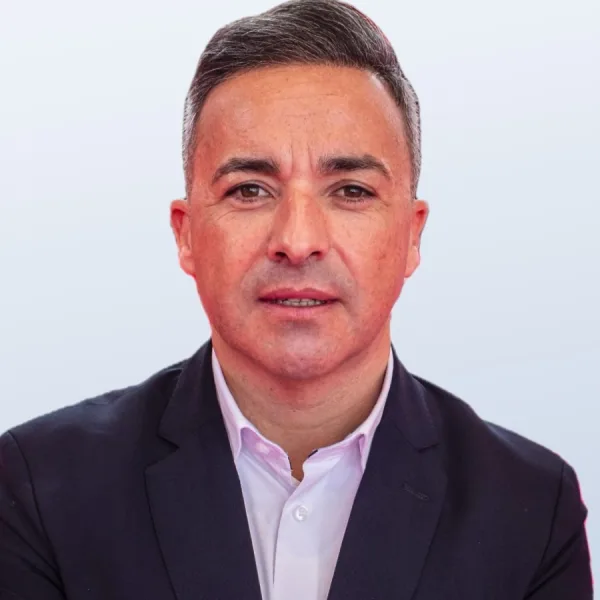
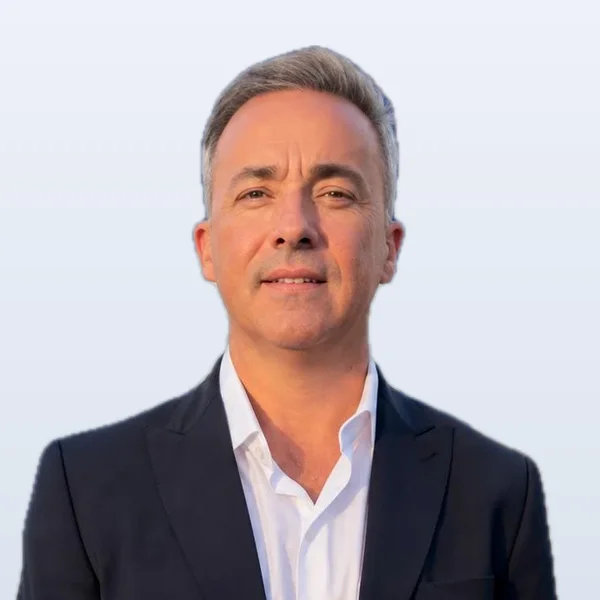
Web: actualización del 16-11-2026 18:18

diff --git a/public/sobre-nosotros.html b/public/sobre-nosotros.html
@@ -46,7 +46,7 @@
 <section class="sec" id="equipo"><div class="wrap">
   <p class="eyebrow"><i></i>El equipo</p>
   <h2 class="h2">Las personas<br><span>detrás de Finomik.</span></h2>
-  <div class="members"><article class="member"><span class="ph"><img src="/media/equipo/joaquino-da-costa.webp?v=1" alt="Joaquino Da Costa" width="600" height="600" loading="lazy" decoding="async"></span><b>Joaquino Da Costa</b><span class="role">CEO</span><p>Habla con cada colegio antes de que empiece con Finomik y se asegura de que el programa encaje en su día a día.</p></article><article class="member"><span class="ph"><img src="/media/equipo/miquel-ferrer.webp?v=1" alt="Miquel Ferrer" width="600" height="600" loading="lazy" decoding="async"></span><b>Miquel Ferrer</b><span class="role">CFO y COO</span><p>Se ocupa del producto, del contenido y de los números, para que cada clase funcione.</p></article><article class="member"><span class="ph"><img src="/media/equipo/walter-da-costa.webp?v=1" alt="Walter Da Costa" width="600" height="600" loading="lazy" decoding="async"></span><b>Walter Da Costa</b><span class="role">Director ejecutivo</span><p>Casi 20 años vendiendo en más de 65 países. Lleva Finomik a nuevos mercados.</p></article><article class="member"><span class="ph"><img src="/media/equipo/gaspar-montoliu.webp?v=1" alt="Gaspar Montoliu" width="600" height="600" loading="lazy" decoding="async"></span><b>Gaspar Montoliu</b><span class="role">CTO</span><p>Más de 30 años creando y haciendo crecer productos tecnológicos. Es quien construye la plataforma.</p></article></div>
+  <div class="members"><article class="member"><span class="ph"><img src="/media/equipo/joaquino-da-costa.webp?v=1" alt="Joaquino Da Costa" width="600" height="600" loading="lazy" decoding="async"></span><b>Joaquino Da Costa</b><span class="role">CEO</span><p>Habla con cada colegio antes de que empiece con Finomik y se asegura de que el programa encaje en su día a día.</p></article><article class="member"><span class="ph"><img src="/media/equipo/miquel-ferrer.webp?v=1" alt="Miquel Ferrer" width="600" height="600" loading="lazy" decoding="async"></span><b>Miquel Ferrer</b><span class="role">CFO y COO</span><p>Se ocupa del producto, del contenido y de los números, para que cada clase funcione.</p></article><article class="member"><span class="ph"><img src="/media/equipo/walter-da-costa.webp?v=4" alt="Walter Da Costa" width="600" height="600" loading="lazy" decoding="async"></span><b>Walter Da Costa</b><span class="role">Director ejecutivo</span><p>Casi 20 años vendiendo en más de 65 países. Lleva Finomik a nuevos mercados.</p></article><article class="member"><span class="ph"><img src="/media/equipo/gaspar-montoliu.webp?v=1" alt="Gaspar Montoliu" width="600" height="600" loading="lazy" decoding="async"></span><b>Gaspar Montoliu</b><span class="role">CTO</span><p>Más de 30 años creando y haciendo crecer productos tecnológicos. Es quien construye la plataforma.</p></article></div>
 </div></section>
 <!-- ============ TESTIMONIOS ============ -->
 <section class="sec ts" id="testi">

diff --git a/src/paginas/es/nosotros.html b/src/paginas/es/nosotros.html
@@ -14,7 +14,7 @@
 <section class="sec" id="equipo"><div class="wrap">
   <p class="eyebrow"><i></i>El equipo</p>
   <h2 class="h2">Las personas<br><span>detrás de Finomik.</span></h2>
-  <div class="members"><article class="member"><span class="ph"><img src="/media/equipo/joaquino-da-costa.webp?v=1" alt="Joaquino Da Costa" width="600" height="600" loading="lazy" decoding="async"></span><b>Joaquino Da Costa</b><span class="role">CEO</span><p>Habla con cada colegio antes de que empiece con Finomik y se asegura de que el programa encaje en su día a día.</p></article><article class="member"><span class="ph"><img src="/media/equipo/miquel-ferrer.webp?v=1" alt="Miquel Ferrer" width="600" height="600" loading="lazy" decoding="async"></span><b>Miquel Ferrer</b><span class="role">CFO y COO</span><p>Se ocupa del producto, del contenido y de los números, para que cada clase funcione.</p></article><article class="member"><span class="ph"><img src="/media/equipo/walter-da-costa.webp?v=1" alt="Walter Da Costa" width="600" height="600" loading="lazy" decoding="async"></span><b>Walter Da Costa</b><span class="role">Director ejecutivo</span><p>Casi 20 años vendiendo en más de 65 países. Lleva Finomik a nuevos mercados.</p></article><article class="member"><span class="ph"><img src="/media/equipo/gaspar-montoliu.webp?v=1" alt="Gaspar Montoliu" width="600" height="600" loading="lazy" decoding="async"></span><b>Gaspar Montoliu</b><span class="role">CTO</span><p>Más de 30 años creando y haciendo crecer productos tecnológicos. Es quien construye la plataforma.</p></article></div>
+  <div class="members"><article class="member"><span class="ph"><img src="/media/equipo/joaquino-da-costa.webp?v=1" alt="Joaquino Da Costa" width="600" height="600" loading="lazy" decoding="async"></span><b>Joaquino Da Costa</b><span class="role">CEO</span><p>Habla con cada colegio antes de que empiece con Finomik y se asegura de que el programa encaje en su día a día.</p></article><article class="member"><span class="ph"><img src="/media/equipo/miquel-ferrer.webp?v=1" alt="Miquel Ferrer" width="600" height="600" loading="lazy" decoding="async"></span><b>Miquel Ferrer</b><span class="role">CFO y COO</span><p>Se ocupa del producto, del contenido y de los números, para que cada clase funcione.</p></article><article class="member"><span class="ph"><img src="/media/equipo/walter-da-costa.webp?v=4" alt="Walter Da Costa" width="600" height="600" loading="lazy" decoding="async"></span><b>Walter Da Costa</b><span class="role">Director ejecutivo</span><p>Casi 20 años vendiendo en más de 65 países. Lleva Finomik a nuevos mercados.</p></article><article class="member"><span class="ph"><img src="/media/equipo/gaspar-montoliu.webp?v=1" alt="Gaspar Montoliu" width="600" height="600" loading="lazy" decoding="async"></span><b>Gaspar Montoliu</b><span class="role">CTO</span><p>Más de 30 años creando y haciendo crecer productos tecnológicos. Es quien construye la plataforma.</p></article></div>
 </div></section>
 <!-- ============ TESTIMONIOS ============ -->
 <section class="sec ts" id="testi">

diff --git a/public/en/about.html b/public/en/about.html
@@ -46,7 +46,7 @@
 <section class="sec" id="equipo"><div class="wrap">
   <p class="eyebrow"><i></i>The team</p>
   <h2 class="h2">The people<br><span>behind Finomik.</span></h2>
-  <div class="members"><article class="member"><span class="ph"><img src="/media/equipo/joaquino-da-costa.webp?v=1" alt="Joaquino Da Costa" width="600" height="600" loading="lazy" decoding="async"></span><b>Joaquino Da Costa</b><span class="role">CEO</span><p>Talks to every school before it starts with Finomik and makes sure the programme fits its day-to-day.</p></article><article class="member"><span class="ph"><img src="/media/equipo/miquel-ferrer.webp?v=1" alt="Miquel Ferrer" width="600" height="600" loading="lazy" decoding="async"></span><b>Miquel Ferrer</b><span class="role">CFO & COO</span><p>Looks after the product, the content and the numbers, so that every class works.</p></article><article class="member"><span class="ph"><img src="/media/equipo/walter-da-costa.webp?v=1" alt="Walter Da Costa" width="600" height="600" loading="lazy" decoding="async"></span><b>Walter Da Costa</b><span class="role">Executive Director</span><p>Almost 20 years selling in more than 65 countries. He takes Finomik to new markets.</p></article><article class="member"><span class="ph"><img src="/media/equipo/gaspar-montoliu.webp?v=1" alt="Gaspar Montoliu" width="600" height="600" loading="lazy" decoding="async"></span><b>Gaspar Montoliu</b><span class="role">CTO</span><p>Over 30 years building and scaling tech products. He's the one who builds the platform.</p></article></div>
+  <div class="members"><article class="member"><span class="ph"><img src="/media/equipo/joaquino-da-costa.webp?v=1" alt="Joaquino Da Costa" width="600" height="600" loading="lazy" decoding="async"></span><b>Joaquino Da Costa</b><span class="role">CEO</span><p>Talks to every school before it starts with Finomik and makes sure the programme fits its day-to-day.</p></article><article class="member"><span class="ph"><img src="/media/equipo/miquel-ferrer.webp?v=1" alt="Miquel Ferrer" width="600" height="600" loading="lazy" decoding="async"></span><b>Miquel Ferrer</b><span class="role">CFO & COO</span><p>Looks after the product, the content and the numbers, so that every class works.</p></article><article class="member"><span class="ph"><img src="/media/equipo/walter-da-costa.webp?v=4" alt="Walter Da Costa" width="600" height="600" loading="lazy" decoding="async"></span><b>Walter Da Costa</b><span class="role">Executive Director</span><p>Almost 20 years selling in more than 65 countries. He takes Finomik to new markets.</p></article><article class="member"><span class="ph"><img src="/media/equipo/gaspar-montoliu.webp?v=1" alt="Gaspar Montoliu" width="600" height="600" loading="lazy" decoding="async"></span><b>Gaspar Montoliu</b><span class="role">CTO</span><p>Over 30 years building and scaling tech products. He's the one who builds the platform.</p></article></div>
 </div></section>
 <!-- ============ TESTIMONIALS ============ -->
 <section class="sec ts" id="testi">

diff --git a/src/paginas/en/nosotros.html b/src/paginas/en/nosotros.html
@@ -14,7 +14,7 @@
 <section class="sec" id="equipo"><div class="wrap">
   <p class="eyebrow"><i></i>The team</p>
   <h2 class="h2">The people<br><span>behind Finomik.</span></h2>
-  <div class="members"><article class="member"><span class="ph"><img src="/media/equipo/joaquino-da-costa.webp?v=1" alt="Joaquino Da Costa" width="600" height="600" loading="lazy" decoding="async"></span><b>Joaquino Da Costa</b><span class="role">CEO</span><p>Talks to every school before it starts with Finomik and makes sure the programme fits its day-to-day.</p></article><article class="member"><span class="ph"><img src="/media/equipo/miquel-ferrer.webp?v=1" alt="Miquel Ferrer" width="600" height="600" loading="lazy" decoding="async"></span><b>Miquel Ferrer</b><span class="role">CFO & COO</span><p>Looks after the product, the content and the numbers, so that every class works.</p></article><article class="member"><span class="ph"><img src="/media/equipo/walter-da-costa.webp?v=1" alt="Walter Da Costa" width="600" height="600" loading="lazy" decoding="async"></span><b>Walter Da Costa</b><span class="role">Executive Director</span><p>Almost 20 years selling in more than 65 countries. He takes Finomik to new markets.</p></article><article class="member"><span class="ph"><img src="/media/equipo/gaspar-montoliu.webp?v=1" alt="Gaspar Montoliu" width="600" height="600" loading="lazy" decoding="async"></span><b>Gaspar Montoliu</b><span class="role">CTO</span><p>Over 30 years building and scaling tech products. He's the one who builds the platform.</p></article></div>
+  <div class="members"><article class="member"><span class="ph"><img src="/media/equipo/joaquino-da-costa.webp?v=1" alt="Joaquino Da Costa" width="600" height="600" loading="lazy" decoding="async"></span><b>Joaquino Da Costa</b><span class="role">CEO</span><p>Talks to every school before it starts with Finomik and makes sure the programme fits its day-to-day.</p></article><article class="member"><span class="ph"><img src="/media/equipo/miquel-ferrer.webp?v=1" alt="Miquel Ferrer" width="600" height="600" loading="lazy" decoding="async"></span><b>Miquel Ferrer</b><span class="role">CFO & COO</span><p>Looks after the product, the content and the numbers, so that every class works.</p></article><article class="member"><span class="ph"><img src="/media/equipo/walter-da-costa.webp?v=4" alt="Walter Da Costa" width="600" height="600" loading="lazy" decoding="async"></span><b>Walter Da Costa</b><span class="role">Executive Director</span><p>Almost 20 years selling in more than 65 countries. He takes Finomik to new markets.</p></article><article class="member"><span class="ph"><img src="/media/equipo/gaspar-montoliu.webp?v=1" alt="Gaspar Montoliu" width="600" height="600" loading="lazy" decoding="async"></span><b>Gaspar Montoliu</b><span class="role">CTO</span><p>Over 30 years building and scaling tech products. He's the one who builds the platform.</p></article></div>
 </div></section>
 <!-- ============ TESTIMONIALS ============ -->
 <section class="sec ts" id="testi">

diff --git a/public/en.html b/public/en.html
@@ -158,7 +158,7 @@
       <div class="team-faces">
         <figure><span class="ph"><img src="/media/equipo/joaquino-da-costa.webp?v=1" alt="Joaquino Da Costa" width="600" height="600" loading="lazy" decoding="async"></span><figcaption><b>Joaquino</b><span>CEO</span></figcaption></figure>
         <figure><span class="ph"><img src="/media/equipo/miquel-ferrer.webp?v=1" alt="Miquel Ferrer" width="600" height="600" loading="lazy" decoding="async"></span><figcaption><b>Miquel</b><span>CFO & COO</span></figcaption></figure>
-        <figure><span class="ph"><img src="/media/equipo/walter-da-costa.webp?v=1" alt="Walter Da Costa" width="600" height="600" loading="lazy" decoding="async"></span><figcaption><b>Walter</b><span>Executive Director</span></figcaption></figure>
+        <figure><span class="ph"><img src="/media/equipo/walter-da-costa.webp?v=4" alt="Walter Da Costa" width="600" height="600" loading="lazy" decoding="async"></span><figcaption><b>Walter</b><span>Executive Director</span></figcaption></figure>
         <figure><span class="ph"><img src="/media/equipo/gaspar-montoliu.webp?v=1" alt="Gaspar Montoliu" width="600" height="600" loading="lazy" decoding="async"></span><figcaption><b>Gaspar</b><span>CTO</span></figcaption></figure>
       </div>
     </div>

diff --git a/public/index.html b/public/index.html
@@ -159,7 +159,7 @@
       <div class="team-faces">
         <figure><span class="ph"><img src="/media/equipo/joaquino-da-costa.webp?v=1" alt="Joaquino Da Costa" width="600" height="600" loading="lazy" decoding="async"></span><figcaption><b>Joaquino</b><span>CEO</span></figcaption></figure>
         <figure><span class="ph"><img src="/media/equipo/miquel-ferrer.webp?v=1" alt="Miquel Ferrer" width="600" height="600" loading="lazy" decoding="async"></span><figcaption><b>Miquel</b><span>CFO y COO</span></figcaption></figure>
-        <figure><span class="ph"><img src="/media/equipo/walter-da-costa.webp?v=1" alt="Walter Da Costa" width="600" height="600" loading="lazy" decoding="async"></span><figcaption><b>Walter</b><span>Director ejecutivo</span></figcaption></figure>
+        <figure><span class="ph"><img src="/media/equipo/walter-da-costa.webp?v=4" alt="Walter Da Costa" width="600" height="600" loading="lazy" decoding="async"></span><figcaption><b>Walter</b><span>Director ejecutivo</span></figcaption></figure>
         <figure><span class="ph"><img src="/media/equipo/gaspar-montoliu.webp?v=1" alt="Gaspar Montoliu" width="600" height="600" loading="lazy" decoding="async"></span><figcaption><b>Gaspar</b><span>CTO</span></figcaption></figure>
       </div>
     </div>

diff --git a/src/paginas/en/index.html b/src/paginas/en/index.html
@@ -125,7 +125,7 @@
       <div class="team-faces">
         <figure><span class="ph"><img src="/media/equipo/joaquino-da-costa.webp?v=1" alt="Joaquino Da Costa" width="600" height="600" loading="lazy" decoding="async"></span><figcaption><b>Joaquino</b><span>CEO</span></figcaption></figure>
         <figure><span class="ph"><img src="/media/equipo/miquel-ferrer.webp?v=1" alt="Miquel Ferrer" width="600" height="600" loading="lazy" decoding="async"></span><figcaption><b>Miquel</b><span>CFO & COO</span></figcaption></figure>
-        <figure><span class="ph"><img src="/media/equipo/walter-da-costa.webp?v=1" alt="Walter Da Costa" width="600" height="600" loading="lazy" decoding="async"></span><figcaption><b>Walter</b><span>Executive Director</span></figcaption></figure>
+        <figure><span class="ph"><img src="/media/equipo/walter-da-costa.webp?v=4" alt="Walter Da Costa" width="600" height="600" loading="lazy" decoding="async"></span><figcaption><b>Walter</b><span>Executive Director</span></figcaption></figure>
         <figure><span class="ph"><img src="/media/equipo/gaspar-montoliu.webp?v=1" alt="Gaspar Montoliu" width="600" height="600" loading="lazy" decoding="async"></span><figcaption><b>Gaspar</b><span>CTO</span></figcaption></figure>
       </div>
     </div>

diff --git a/src/paginas/es/index.html b/src/paginas/es/index.html
@@ -126,7 +126,7 @@
       <div class="team-faces">
         <figure><span class="ph"><img src="/media/equipo/joaquino-da-costa.webp?v=1" alt="Joaquino Da Costa" width="600" height="600" loading="lazy" decoding="async"></span><figcaption><b>Joaquino</b><span>CEO</span></figcaption></figure>
         <figure><span class="ph"><img src="/media/equipo/miquel-ferrer.webp?v=1" alt="Miquel Ferrer" width="600" height="600" loading="lazy" decoding="async"></span><figcaption><b>Miquel</b><span>CFO y COO</span></figcaption></figure>
-        <figure><span class="ph"><img src="/media/equipo/walter-da-costa.webp?v=1" alt="Walter Da Costa" width="600" height="600" loading="lazy" decoding="async"></span><figcaption><b>Walter</b><span>Director ejecutivo</span></figcaption></figure>
+        <figure><span class="ph"><img src="/media/equipo/walter-da-costa.webp?v=4" alt="Walter Da Costa" width="600" height="600" loading="lazy" decoding="async"></span><figcaption><b>Walter</b><span>Director ejecutivo</span></figcaption></figure>
         <figure><span class="ph"><img src="/media/equipo/gaspar-montoliu.webp?v=1" alt="Gaspar Montoliu" width="600" height="600" loading="lazy" decoding="async"></span><figcaption><b>Gaspar</b><span>CTO</span></figcaption></figure>
       </div>
     </div>
